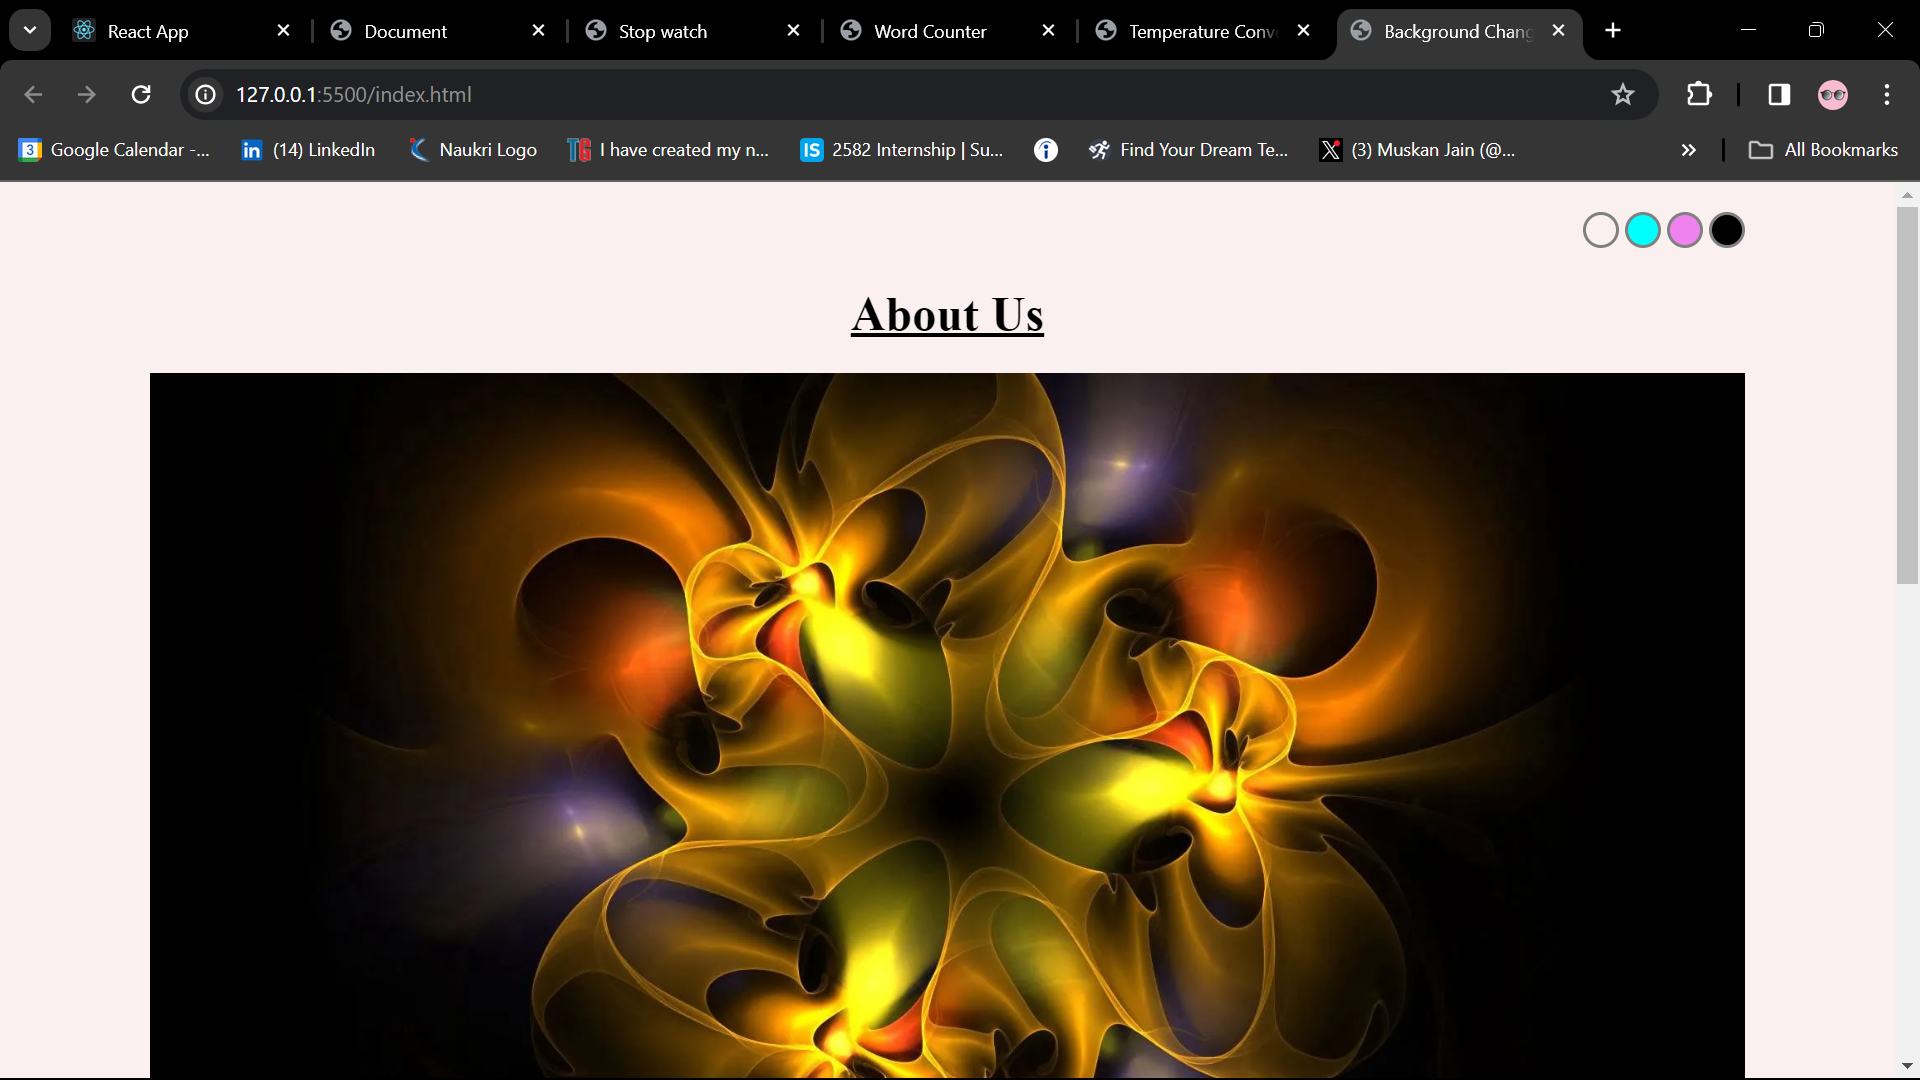
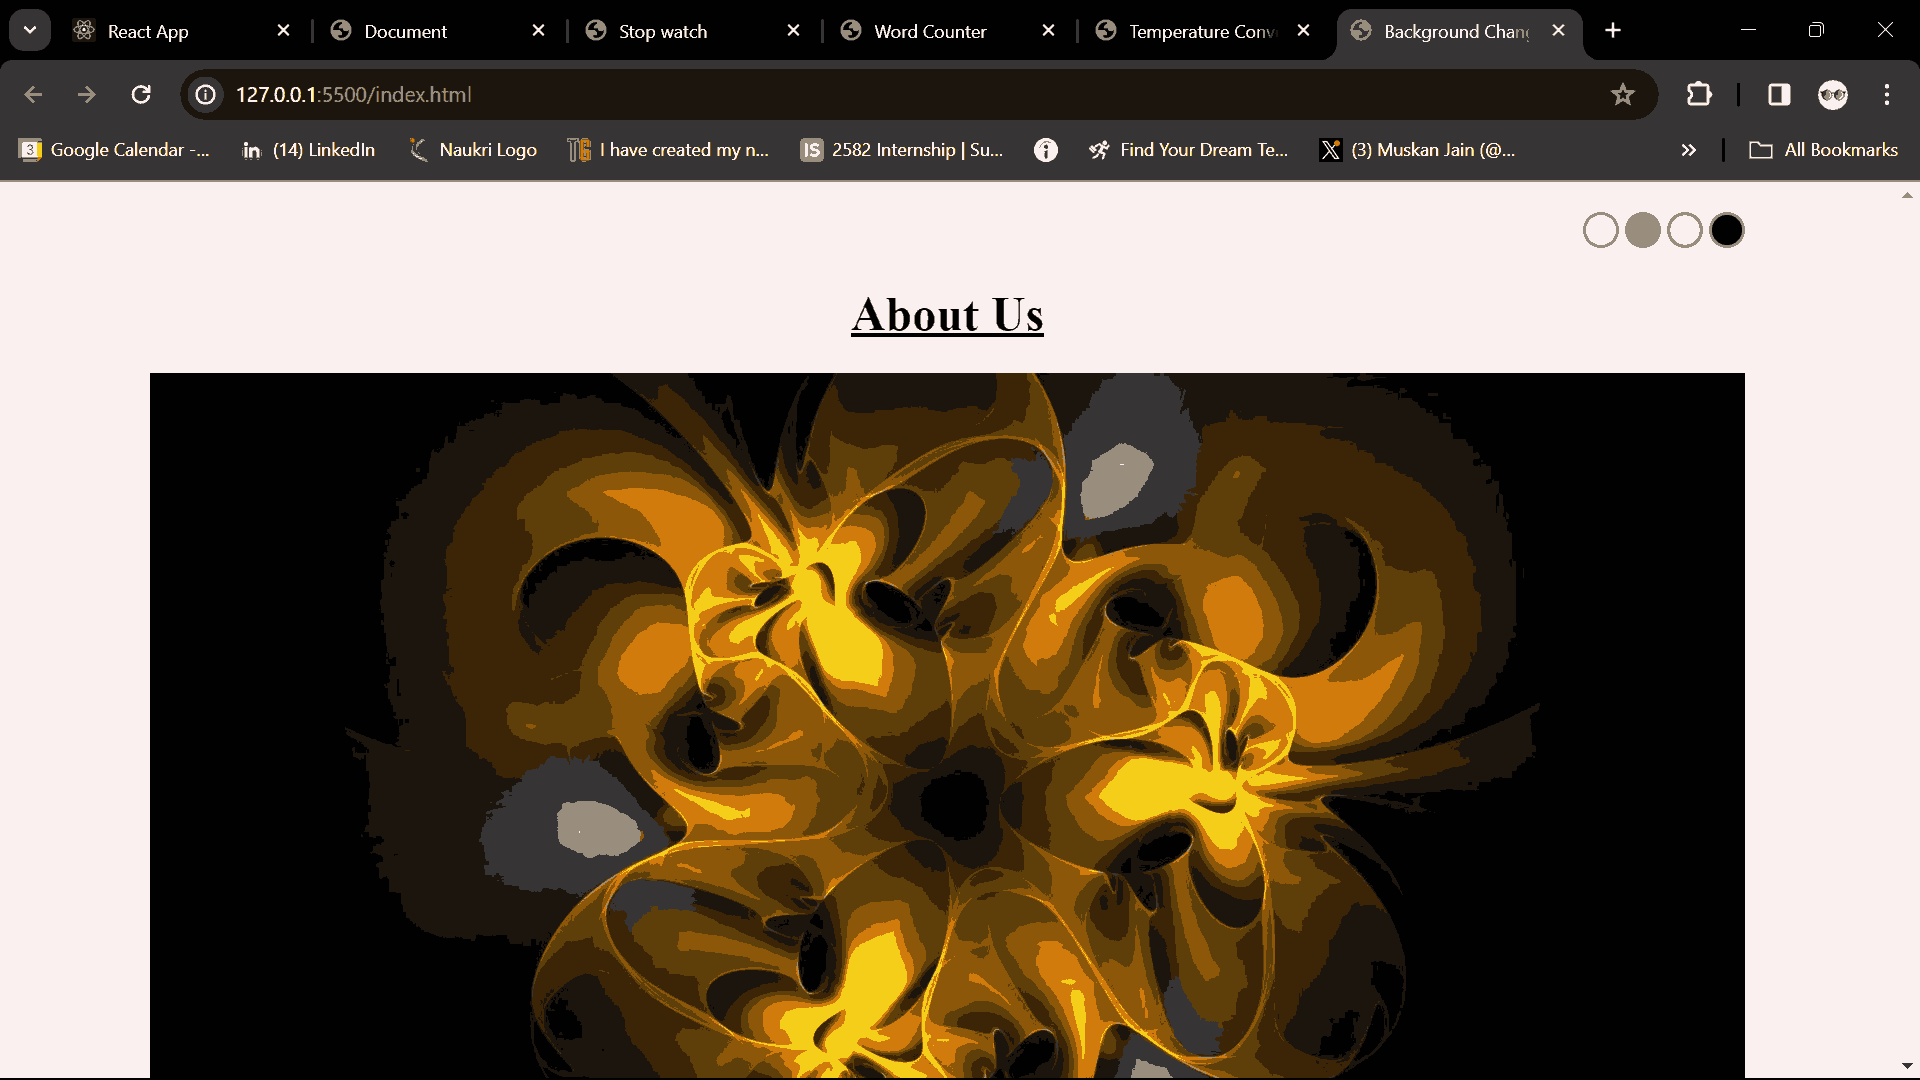
changes photos

diff --git a/src/components/About/About.js b/src/components/About/About.js
@@ -4,7 +4,7 @@ import Particle from "../Particle";
 import Github from "./Github";
 import Techstack from "./Techstack";
 import Aboutcard from "./AboutCard";
-import laptopImg from "../../Assets/about.png";
+import laptopImg from "../../Assets/key.jpg";
 import Toolstack from "./Toolstack";
 
 function About() {
